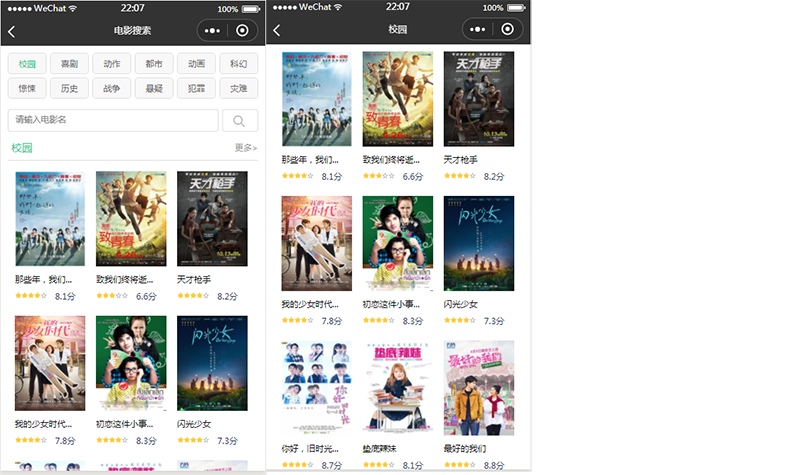
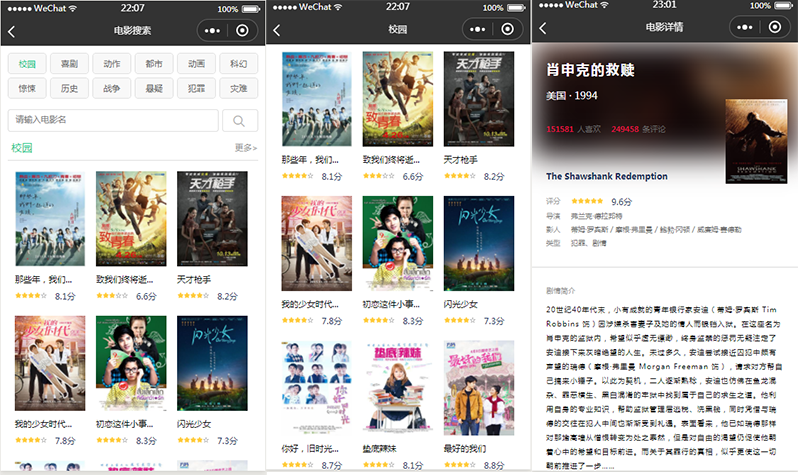
accomplish movie-details Page

Changed region(s): [[0.6562, 0.0, 1.0, 0.4126], [0.6562, 0.5895, 1.0, 1.0], [0.6875, 0.4126, 0.9375, 0.5305]]

diff --git a/pages/search/search.js b/pages/search/search.js
@@ -126,5 +126,12 @@ Page({
         wx.navigateTo({
             url: 'movie-details/movie-details?movieid=' + moviwId
         })
+    },
+
+    onMovieDetailTap: function (event) {
+        var moviwId = event.currentTarget.dataset.movieid;
+        wx.navigateTo({
+            url: '../movie-details/movie-details?movieid=' + moviwId
+        })
     }
 })

diff --git a/pages/coming-soon/coming-soon.js b/pages/coming-soon/coming-soon.js
@@ -101,7 +101,7 @@ Page({
     onMovieDetailTap: function (event) {
         var moviwId = event.currentTarget.dataset.movieid;
         wx.navigateTo({
-            url: 'movie-details/movie-details?movieid=' + moviwId
+            url: '../movie-details/movie-details?movieid=' + moviwId
         })
     }
 })

diff --git a/pages/top250/top250.js b/pages/top250/top250.js
@@ -101,7 +101,7 @@ Page({
     onMovieDetailTap: function (event) {
         var moviwId = event.currentTarget.dataset.movieid;
         wx.navigateTo({
-            url: 'movie-details/movie-details?movieid=' + moviwId
+            url: '../movie-details/movie-details?movieid=' + moviwId
         })
     }
 })

diff --git a/pages/movie-details/movie-details.js b/pages/movie-details/movie-details.js
@@ -6,7 +6,6 @@ Page({
     },
     onLoad: function (options) {
         // 获取url参数
-        var movieId = options.movieid;
         console.log(movieId);
         // 电影详细信息（条目信息）url
         var url = app.globalData.doubanBase + "subject/" + movieId;

diff --git a/README.md b/README.md
@@ -11,7 +11,7 @@
 	git@github.com:JinwenXie/wxApp-douban-api-movie.git
 
 直接使用命令克隆下载到本地，或者直接下载压缩文件到本地，先**启动Nginx**，再使用微信开发者工具打开<br>
-如果没有使用Nginx的话，微信开发者工具打开项目后，打开app.js文件做如下更改：<br>
+**如果没有使用Nginx的话**，微信开发者工具打开项目后，打开app.js文件做如下更改：<br>
 ![](https://i.imgur.com/HY70LUV.png)<br>
 
 保存刷新后即可看到数据有显示了
@@ -26,9 +26,9 @@
 3. 电影排行榜首页（已完成）；
 4. 电影搜索页（已完成）；
 5. 电影列表页（已完成）；
-6. 电影详情页（暂未完成）；
+6. 电影详情页（已完成）；
 
-### 暂时目录结构
+### 目录结构
 	
 	wxApp-douban-api-movie:
 	│  app.js
@@ -50,7 +50,6 @@
 	    │      coming-soon.wxml
 	    │      coming-soon.wxss
 	    │      
-	    ├─data
 	    ├─images
 	    │      
 	    ├─list
@@ -58,6 +57,12 @@
 	    │      list.json
 	    │      list.wxml
 	    │      list.wxss
+	    │      
+	    ├─movie-details
+	    │      movie-details.js
+	    │      movie-details.json
+	    │      movie-details.wxml
+	    │      movie-details.wxss
 	    │      
 	    ├─movie-list
 	    │  │  movie-list.wxml
@@ -89,10 +94,12 @@
 	    │      
 	    └─utils
 	            utils.js
+	            
             
 
 ### 页面截图
-
+![](https://i.imgur.com/NSlPnrU.png)<br>
+![](https://i.imgur.com/mg3CNAw.png)
 
 
 ### 如果您觉得还不错的话，千千万来一个star！
